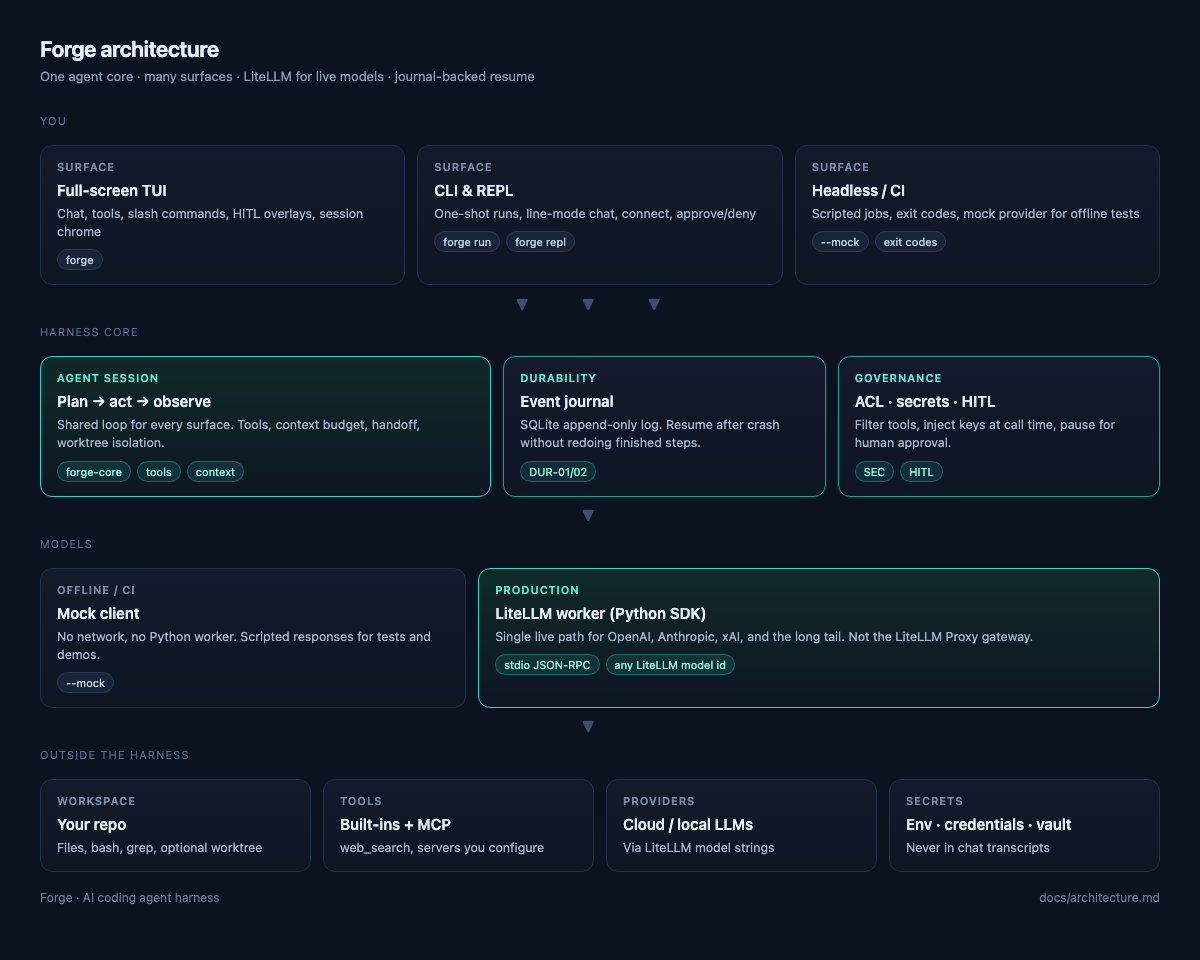
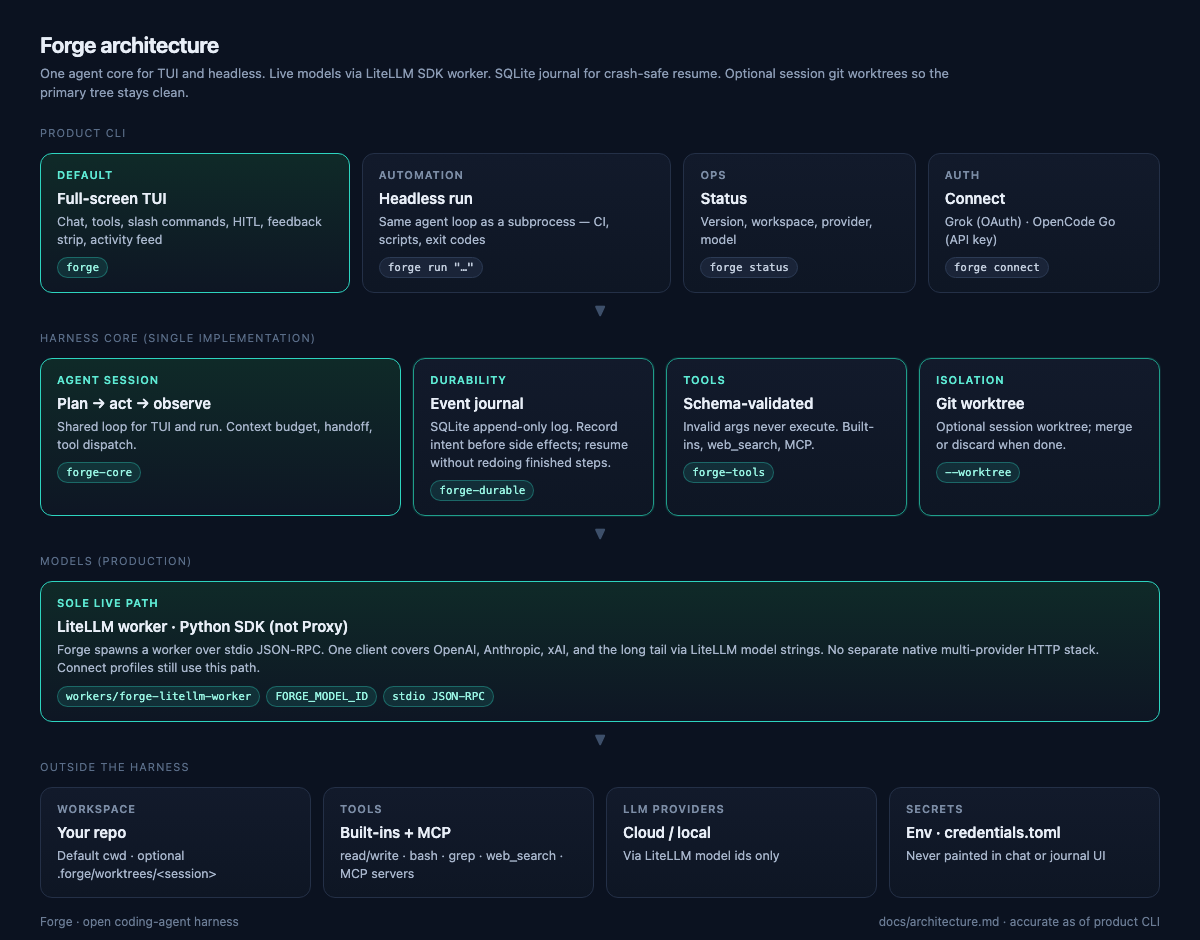
docs: refresh architecture diagram to match shipped product
Show forge / run / status / connect, single LiteLLM path, journal,
schema tools, and worktree isolation; drop REPL and --mock.

diff --git a/docs/images/architecture.html b/docs/images/architecture.html
@@ -7,11 +7,11 @@
   * { box-sizing: border-box; margin: 0; padding: 0; }
   body {
     width: 1200px;
-    min-height: 920px;
+    min-height: 900px;
     font-family: "SF Pro Text", "Segoe UI", system-ui, sans-serif;
     background: #0b1220;
     color: #e8eef7;
-    padding: 36px 40px 28px;
+    padding: 32px 40px 24px;
   }
   h1 {
     font-size: 22px;
@@ -22,27 +22,29 @@
   .sub {
     font-size: 13px;
     color: #8b9bb4;
-    margin-bottom: 28px;
+    margin-bottom: 22px;
+    line-height: 1.45;
+    max-width: 920px;
   }
   .stack {
     display: flex;
     flex-direction: column;
-    gap: 14px;
+    gap: 12px;
   }
   .row {
     display: grid;
     gap: 12px;
   }
-  .row.surfaces { grid-template-columns: 1fr 1fr 1fr; }
-  .row.core { grid-template-columns: 1.4fr 1fr 1fr; }
-  .row.model { grid-template-columns: 1fr 1.6fr; }
+  .row.surfaces { grid-template-columns: 1.2fr 1.2fr 0.9fr 0.9fr; }
+  .row.core { grid-template-columns: 1.5fr 1fr 1fr 1fr; }
+  .row.model { grid-template-columns: 1fr; }
   .row.extern { grid-template-columns: 1fr 1fr 1fr 1fr; }
   .card {
     border-radius: 12px;
     border: 1px solid #243047;
     background: linear-gradient(180deg, #121a2b 0%, #0e1624 100%);
     padding: 14px 16px;
-    min-height: 88px;
+    min-height: 92px;
   }
   .card.accent {
     border-color: #1f9e8a;
@@ -84,6 +86,7 @@
     background: #1a2438;
     border: 1px solid #2c3b55;
     color: #c5d0e0;
+    font-family: ui-monospace, SFMono-Regular, Menlo, monospace;
   }
   .chip.teal {
     background: rgba(45, 212, 191, 0.12);
@@ -94,13 +97,12 @@
     display: flex;
     justify-content: center;
     color: #3d4f6a;
-    font-size: 18px;
-    height: 10px;
+    font-size: 16px;
+    height: 12px;
     align-items: center;
-    letter-spacing: 24px;
   }
   .footer {
-    margin-top: 18px;
+    margin-top: 16px;
     font-size: 12px;
     color: #6b7c95;
     display: flex;
@@ -111,82 +113,93 @@
     text-transform: uppercase;
     letter-spacing: 0.1em;
     color: #5a6d88;
-    margin: 2px 0 4px;
+    margin: 2px 0 2px;
   }
 </style>
 </head>
 <body>
   <h1>Forge architecture</h1>
-  <p class="sub">One agent core · many surfaces · LiteLLM for live models · journal-backed resume</p>
+  <p class="sub">
+    One agent core for TUI and headless. Live models via LiteLLM SDK worker.
+    SQLite journal for crash-safe resume. Optional session git worktrees so the primary tree stays clean.
+  </p>
 
   <div class="stack">
-    <div class="band">You</div>
+    <div class="band">Product CLI</div>
     <div class="row surfaces">
-      <div class="card">
-        <div class="label muted">Surface</div>
+      <div class="card brand">
+        <div class="label">Default</div>
         <div class="title">Full-screen TUI</div>
-        <div class="desc">Chat, tools, slash commands, HITL overlays, session chrome</div>
-        <div class="chips"><span class="chip">forge</span></div>
+        <div class="desc">Chat, tools, slash commands, HITL, feedback strip, activity feed</div>
+        <div class="chips"><span class="chip teal">forge</span></div>
       </div>
       <div class="card">
-        <div class="label muted">Surface</div>
-        <div class="title">CLI &amp; REPL</div>
-        <div class="desc">One-shot runs, line-mode chat, connect, approve/deny</div>
-        <div class="chips"><span class="chip">forge run</span><span class="chip">forge repl</span></div>
+        <div class="label muted">Automation</div>
+        <div class="title">Headless run</div>
+        <div class="desc">Same agent loop as a subprocess — CI, scripts, exit codes</div>
+        <div class="chips"><span class="chip">forge run "…"</span></div>
       </div>
       <div class="card">
-        <div class="label muted">Surface</div>
-        <div class="title">Headless / CI</div>
-        <div class="desc">Scripted jobs, exit codes, mock provider for offline tests</div>
-        <div class="chips"><span class="chip">--mock</span><span class="chip">exit codes</span></div>
+        <div class="label muted">Ops</div>
+        <div class="title">Status</div>
+        <div class="desc">Version, workspace, provider, model</div>
+        <div class="chips"><span class="chip">forge status</span></div>
+      </div>
+      <div class="card">
+        <div class="label muted">Auth</div>
+        <div class="title">Connect</div>
+        <div class="desc">Grok (OAuth) · OpenCode Go (API key)</div>
+        <div class="chips"><span class="chip">forge connect</span></div>
       </div>
     </div>
 
-    <div class="arrow-row">▼ ▼ ▼</div>
-    <div class="band">Harness core</div>
+    <div class="arrow-row">▼</div>
+    <div class="band">Harness core (single implementation)</div>
 
     <div class="row core">
       <div class="card brand">
         <div class="label">Agent session</div>
         <div class="title">Plan → act → observe</div>
-        <div class="desc">Shared loop for every surface. Tools, context budget, handoff, worktree isolation.</div>
+        <div class="desc">Shared loop for TUI and run. Context budget, handoff, tool dispatch.</div>
         <div class="chips">
           <span class="chip teal">forge-core</span>
-          <span class="chip teal">tools</span>
-          <span class="chip teal">context</span>
         </div>
       </div>
       <div class="card accent">
         <div class="label">Durability</div>
         <div class="title">Event journal</div>
-        <div class="desc">SQLite append-only log. Resume after crash without redoing finished steps.</div>
-        <div class="chips"><span class="chip teal">DUR-01/02</span></div>
+        <div class="desc">SQLite append-only log. Record intent before side effects; resume without redoing finished steps.</div>
+        <div class="chips"><span class="chip teal">forge-durable</span></div>
       </div>
       <div class="card accent">
-        <div class="label">Governance</div>
-        <div class="title">ACL · secrets · HITL</div>
-        <div class="desc">Filter tools, inject keys at call time, pause for human approval.</div>
-        <div class="chips"><span class="chip teal">SEC</span><span class="chip teal">HITL</span></div>
+        <div class="label">Tools</div>
+        <div class="title">Schema-validated</div>
+        <div class="desc">Invalid args never execute. Built-ins, web_search, MCP.</div>
+        <div class="chips"><span class="chip teal">forge-tools</span></div>
+      </div>
+      <div class="card accent">
+        <div class="label">Isolation</div>
+        <div class="title">Git worktree</div>
+        <div class="desc">Optional session worktree; merge or discard when done.</div>
+        <div class="chips"><span class="chip teal">--worktree</span></div>
       </div>
     </div>
 
     <div class="arrow-row">▼</div>
-    <div class="band">Models</div>
+    <div class="band">Models (production)</div>
 
     <div class="row model">
-      <div class="card">
-        <div class="label muted">Offline / CI</div>
-        <div class="title">Mock client</div>
-        <div class="desc">No network, no Python worker. Scripted responses for tests and demos.</div>
-        <div class="chips"><span class="chip">--mock</span></div>
-      </div>
       <div class="card brand">
-        <div class="label">Production</div>
-        <div class="title">LiteLLM worker (Python SDK)</div>
-        <div class="desc">Single live path for OpenAI, Anthropic, xAI, and the long tail. Not the LiteLLM Proxy gateway.</div>
+        <div class="label">Sole live path</div>
+        <div class="title">LiteLLM worker · Python SDK (not Proxy)</div>
+        <div class="desc">
+          Forge spawns a worker over stdio JSON-RPC. One client covers OpenAI, Anthropic, xAI, and the long tail via LiteLLM model strings.
+          No separate native multi-provider HTTP stack. Connect profiles still use this path.
+        </div>
         <div class="chips">
+          <span class="chip teal">workers/forge-litellm-worker</span>
+          <span class="chip teal">FORGE_MODEL_ID</span>
           <span class="chip teal">stdio JSON-RPC</span>
-          <span class="chip teal">any LiteLLM model id</span>
         </div>
       </div>
     </div>
@@ -198,29 +211,29 @@
       <div class="card">
         <div class="label muted">Workspace</div>
         <div class="title">Your repo</div>
-        <div class="desc">Files, bash, grep, optional worktree</div>
+        <div class="desc">Default cwd · optional .forge/worktrees/&lt;session&gt;</div>
       </div>
       <div class="card">
         <div class="label muted">Tools</div>
         <div class="title">Built-ins + MCP</div>
-        <div class="desc">web_search, servers you configure</div>
+        <div class="desc">read/write · bash · grep · web_search · MCP servers</div>
       </div>
       <div class="card">
-        <div class="label muted">Providers</div>
-        <div class="title">Cloud / local LLMs</div>
-        <div class="desc">Via LiteLLM model strings</div>
+        <div class="label muted">LLM providers</div>
+        <div class="title">Cloud / local</div>
+        <div class="desc">Via LiteLLM model ids only</div>
       </div>
       <div class="card">
         <div class="label muted">Secrets</div>
-        <div class="title">Env · credentials · vault</div>
-        <div class="desc">Never in chat transcripts</div>
+        <div class="title">Env · credentials.toml</div>
+        <div class="desc">Never painted in chat or journal UI</div>
       </div>
     </div>
   </div>
 
   <div class="footer">
-    <span>Forge · AI coding agent harness</span>
-    <span>docs/architecture.md</span>
+    <span>Forge · open coding-agent harness</span>
+    <span>docs/architecture.md · accurate as of product CLI</span>
   </div>
 </body>
 </html>
